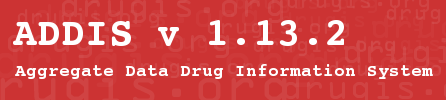
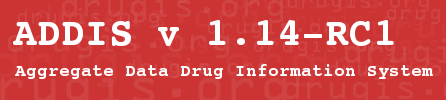
Automated changes for 1.14-RC1

Changed region(s): [[0.6121, 0.18, 0.9036, 0.48]]

diff --git a/application/src/main/java/org/drugis/addis/presentation/AbstractListValidator.java b/application/src/main/java/org/drugis/addis/presentation/AbstractListValidator.java
@@ -1,3 +1,29 @@
+/*
+ * This file is part of ADDIS (Aggregate Data Drug Information System).
+ * ADDIS is distributed from http://drugis.org/.
+ * Copyright (C) 2009 Gert van Valkenhoef, Tommi Tervonen.
+ * Copyright (C) 2010 Gert van Valkenhoef, Tommi Tervonen, 
+ * Tijs Zwinkels, Maarten Jacobs, Hanno Koeslag, Florin Schimbinschi, 
+ * Ahmad Kamal, Daniel Reid.
+ * Copyright (C) 2011 Gert van Valkenhoef, Ahmad Kamal, 
+ * Daniel Reid, Florin Schimbinschi.
+ * Copyright (C) 2012 Gert van Valkenhoef, Daniel Reid, 
+ * Joël Kuiper, Wouter Reckman.
+ *
+ * This program is free software: you can redistribute it and/or modify
+ * it under the terms of the GNU General Public License as published by
+ * the Free Software Foundation, either version 3 of the License, or
+ * (at your option) any later version.
+ *
+ * This program is distributed in the hope that it will be useful,
+ * but WITHOUT ANY WARRANTY; without even the implied warranty of
+ * MERCHANTABILITY or FITNESS FOR A PARTICULAR PURPOSE.  See the
+ * GNU General Public License for more details.
+ *
+ * You should have received a copy of the GNU General Public License
+ * along with this program.  If not, see <http://www.gnu.org/licenses/>.
+ */
+
 package org.drugis.addis.presentation;
 
 import javax.swing.event.ListDataEvent;

diff --git a/application/src/main/java/org/drugis/addis/gui/renderer/DistributionParameterCellRenderer.java b/application/src/main/java/org/drugis/addis/gui/renderer/DistributionParameterCellRenderer.java
@@ -1,3 +1,29 @@
+/*
+ * This file is part of ADDIS (Aggregate Data Drug Information System).
+ * ADDIS is distributed from http://drugis.org/.
+ * Copyright (C) 2009 Gert van Valkenhoef, Tommi Tervonen.
+ * Copyright (C) 2010 Gert van Valkenhoef, Tommi Tervonen, 
+ * Tijs Zwinkels, Maarten Jacobs, Hanno Koeslag, Florin Schimbinschi, 
+ * Ahmad Kamal, Daniel Reid.
+ * Copyright (C) 2011 Gert van Valkenhoef, Ahmad Kamal, 
+ * Daniel Reid, Florin Schimbinschi.
+ * Copyright (C) 2012 Gert van Valkenhoef, Daniel Reid, 
+ * Joël Kuiper, Wouter Reckman.
+ *
+ * This program is free software: you can redistribute it and/or modify
+ * it under the terms of the GNU General Public License as published by
+ * the Free Software Foundation, either version 3 of the License, or
+ * (at your option) any later version.
+ *
+ * This program is distributed in the hope that it will be useful,
+ * but WITHOUT ANY WARRANTY; without even the implied warranty of
+ * MERCHANTABILITY or FITNESS FOR A PARTICULAR PURPOSE.  See the
+ * GNU General Public License for more details.
+ *
+ * You should have received a copy of the GNU General Public License
+ * along with this program.  If not, see <http://www.gnu.org/licenses/>.
+ */
+
 package org.drugis.addis.gui.renderer;
 
 import java.awt.Component;

diff --git a/application/src/main/java/org/drugis/addis/gui/renderer/StudyActivityRenderer.java b/application/src/main/java/org/drugis/addis/gui/renderer/StudyActivityRenderer.java
@@ -1,3 +1,29 @@
+/*
+ * This file is part of ADDIS (Aggregate Data Drug Information System).
+ * ADDIS is distributed from http://drugis.org/.
+ * Copyright (C) 2009 Gert van Valkenhoef, Tommi Tervonen.
+ * Copyright (C) 2010 Gert van Valkenhoef, Tommi Tervonen, 
+ * Tijs Zwinkels, Maarten Jacobs, Hanno Koeslag, Florin Schimbinschi, 
+ * Ahmad Kamal, Daniel Reid.
+ * Copyright (C) 2011 Gert van Valkenhoef, Ahmad Kamal, 
+ * Daniel Reid, Florin Schimbinschi.
+ * Copyright (C) 2012 Gert van Valkenhoef, Daniel Reid, 
+ * Joël Kuiper, Wouter Reckman.
+ *
+ * This program is free software: you can redistribute it and/or modify
+ * it under the terms of the GNU General Public License as published by
+ * the Free Software Foundation, either version 3 of the License, or
+ * (at your option) any later version.
+ *
+ * This program is distributed in the hope that it will be useful,
+ * but WITHOUT ANY WARRANTY; without even the implied warranty of
+ * MERCHANTABILITY or FITNESS FOR A PARTICULAR PURPOSE.  See the
+ * GNU General Public License for more details.
+ *
+ * You should have received a copy of the GNU General Public License
+ * along with this program.  If not, see <http://www.gnu.org/licenses/>.
+ */
+
 package org.drugis.addis.gui.renderer;
 
 import java.awt.Component;
